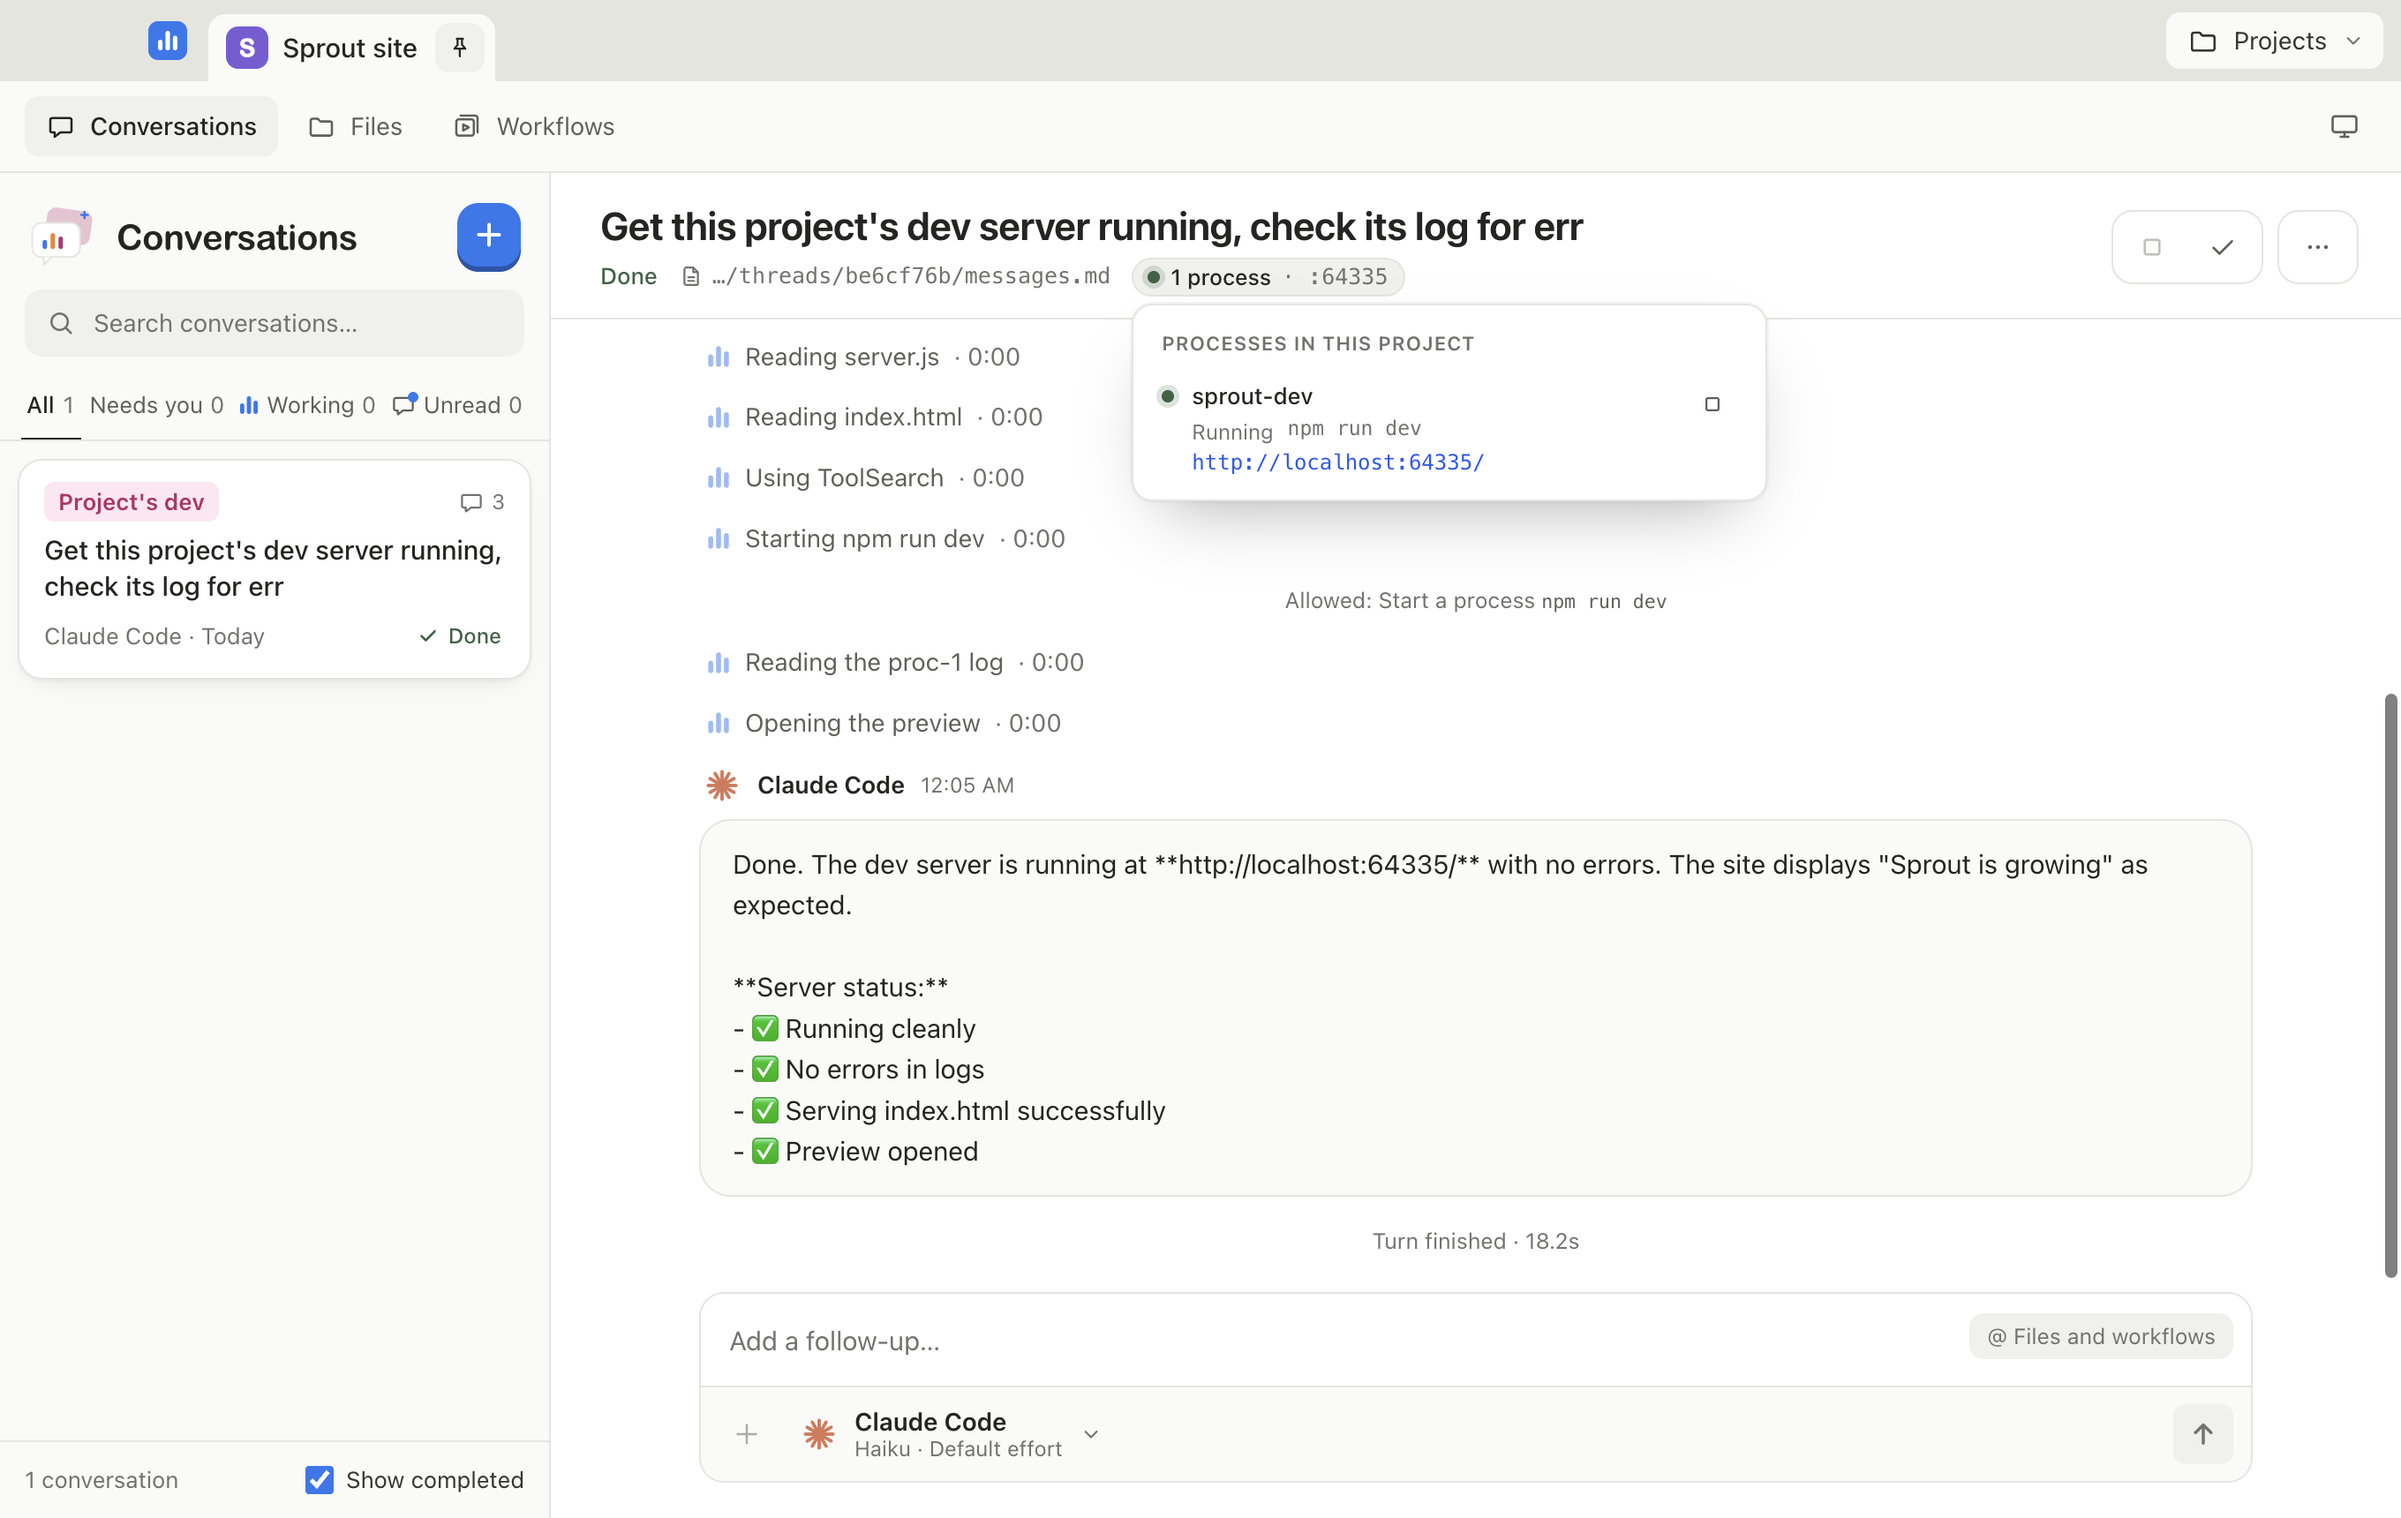
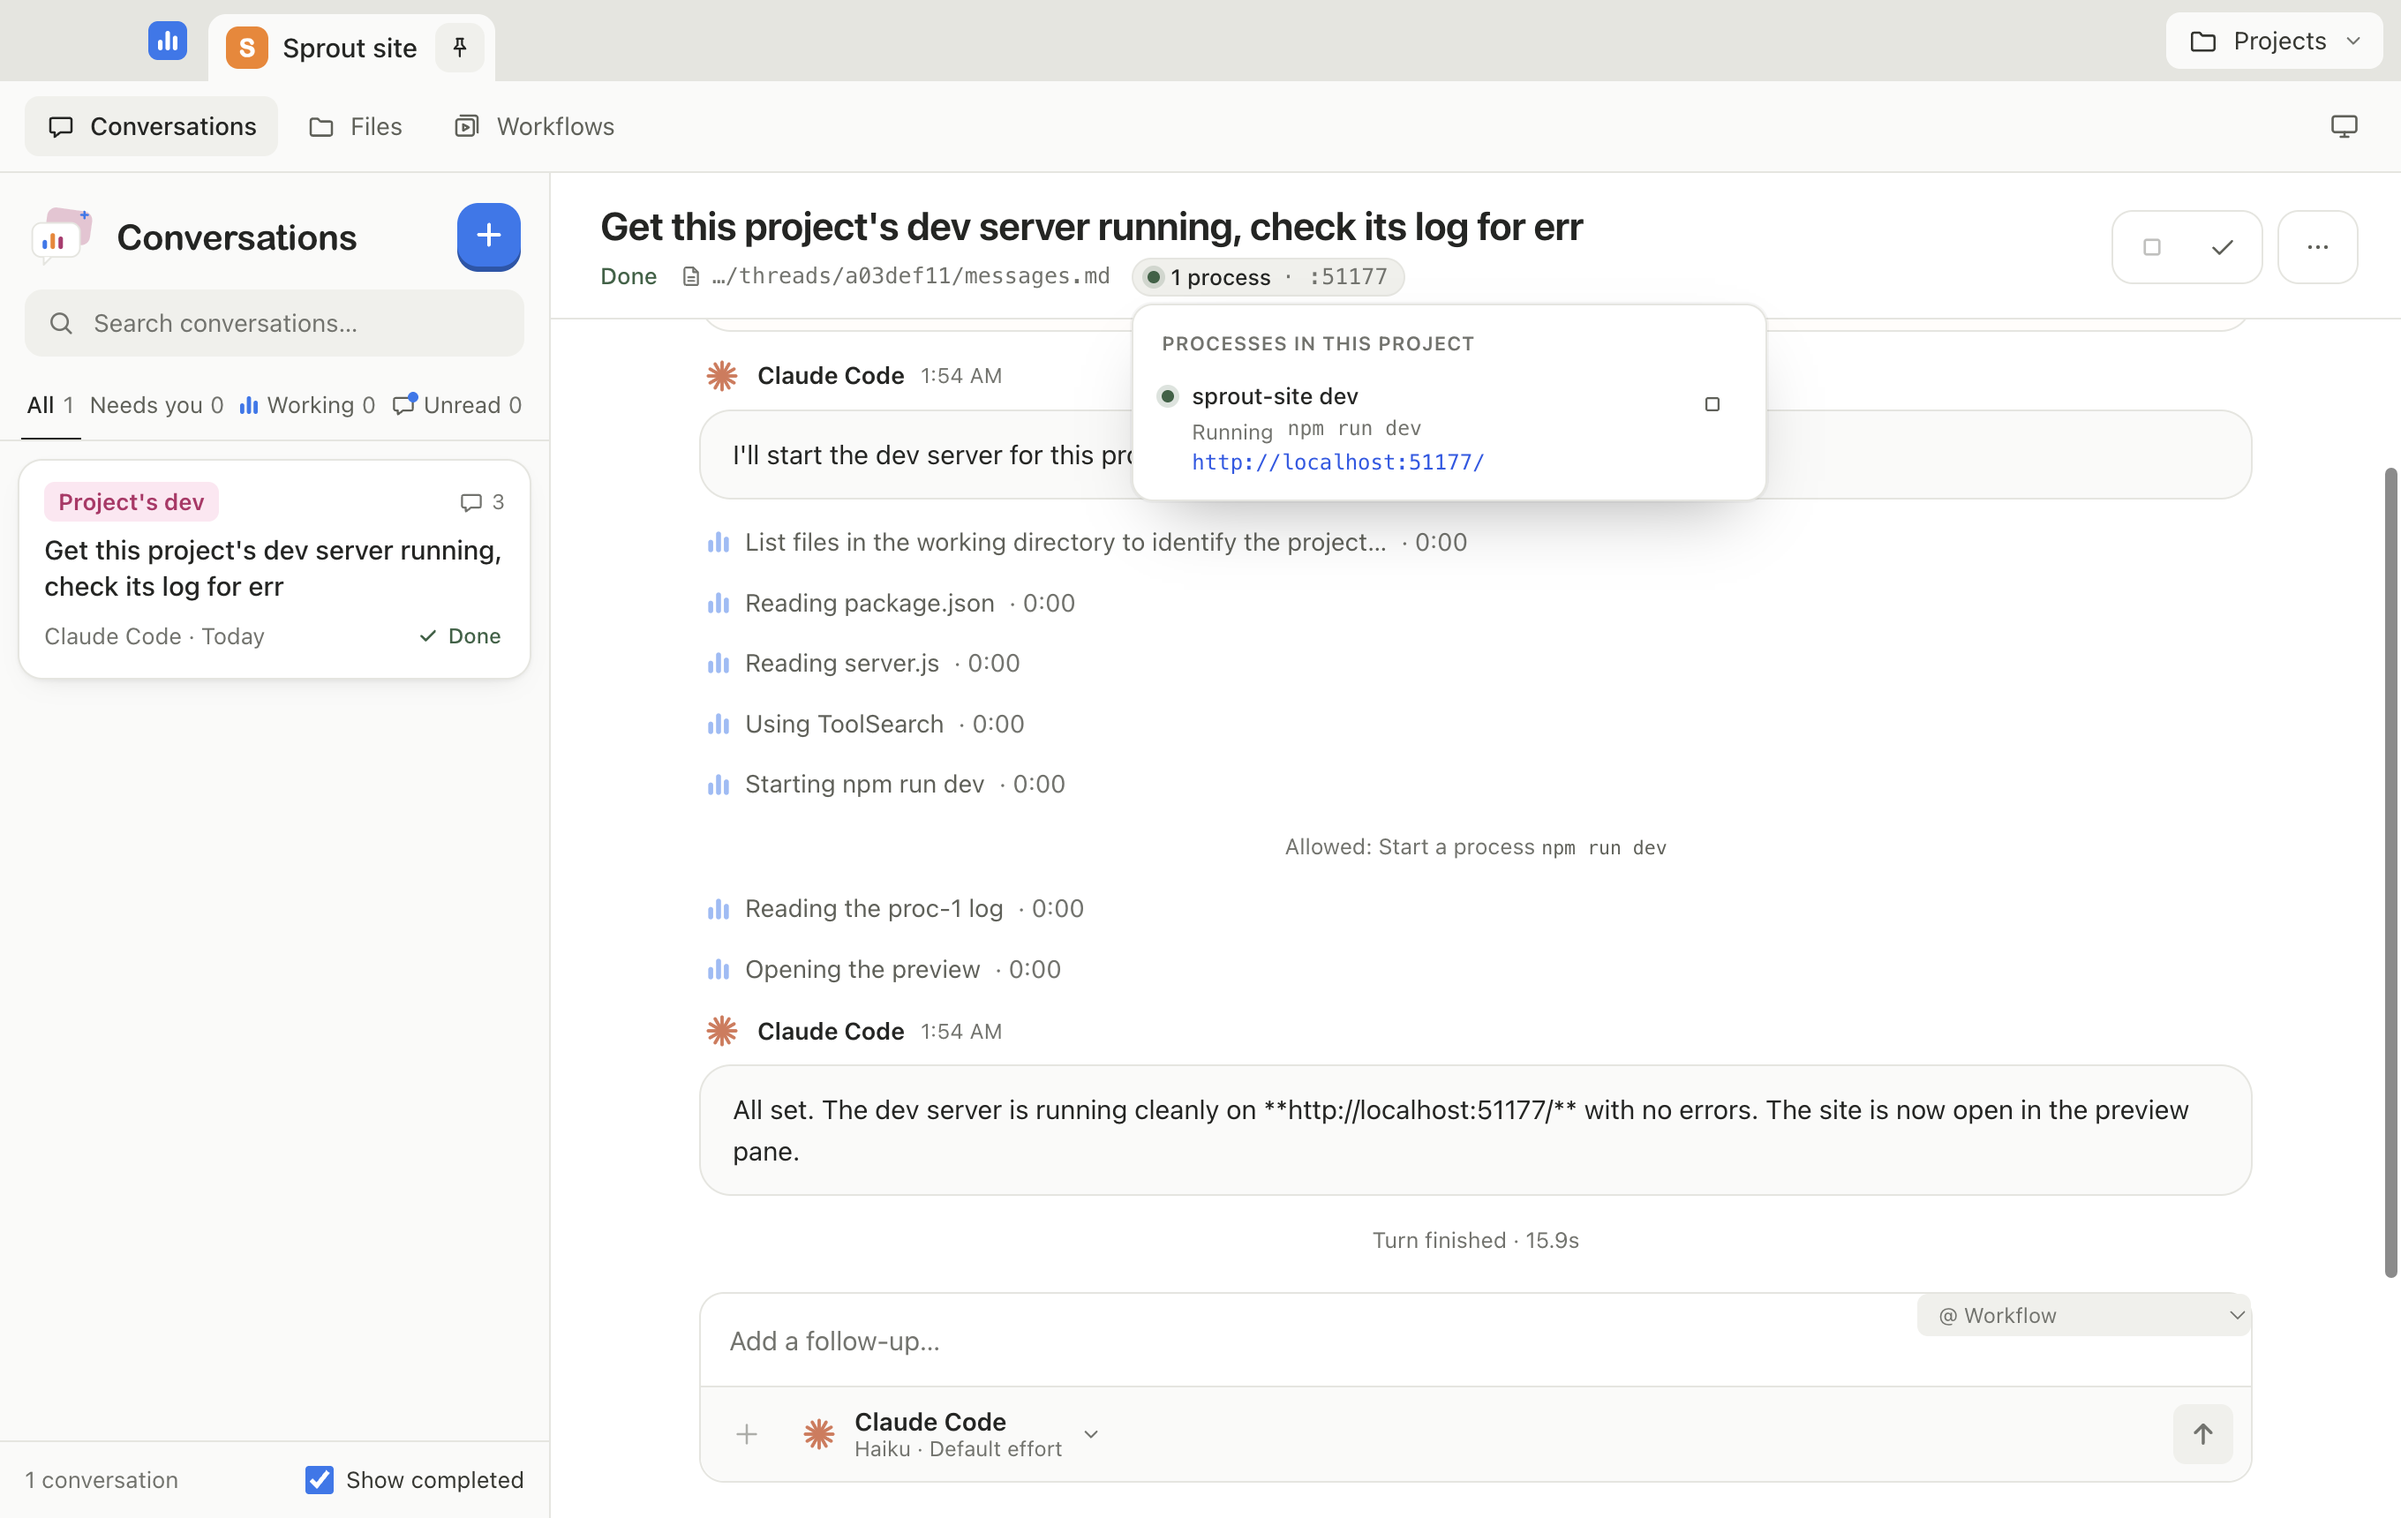
fix(cockpit): re-verify Claude gates after reliability rewrite, tighten proof:mcp, inset workflow picker
- smoke:claude passes again: the empty replies ran while the account was at
  its usage limit
- proof:app, proof-b b1/b2/b3, proof:mcp (16/16), proof:reliability and
  smoke:mcp claude re-run green on a fresh package
- proof:mcp asserted the agent never used Bash; now asserts start_process
  asks and the read-only cockpit tools never do, and logs what asked
- composer @ Workflow picker regained the chip's inset
- PLAN status and BUILD-NOTES updated

diff --git a/scripts/proof-4.ts b/scripts/proof-4.ts
@@ -47,7 +47,9 @@ async function approveUntilDone(page: Page, threadId: string, screenshot?: strin
   await waitUntil(page, 'the turn to finish', async () => {
     const card = page.locator('.approval.open').first()
     if (await card.isVisible()) {
-      asked.push(((await card.locator('.approval-title strong').nth(1).textContent()) ?? '').trim())
+      const tool = ((await card.locator('.approval-title strong').nth(1).textContent()) ?? '').trim()
+      const detail = ((await card.locator('.approval-detail').textContent()) ?? '').trim()
+      asked.push(tool === 'Start a process' ? tool : `${tool}: ${detail.slice(0, 60)}`)
       if (screenshot && asked.length === 1) await page.screenshot({ path: join(PROOF_DIR, screenshot) })
       await card.getByRole('button', { name: 'Allow', exact: true }).click()
       return undefined
@@ -97,7 +99,11 @@ const threadId = await waitUntil(page, 'the thread', async () =>
 
 const asked = await approveUntilDone(page, threadId, 'phase-4-approval.png')
 check('turn finished', (await headStatus(page).textContent()) === 'Done', (await headStatus(page).textContent()) ?? '')
-check('only starting a process asked for approval', asked.length > 0 && asked.every((t) => t === 'Start a process'), asked.join(', '))
+// The agent may also use Bash, which asks in manual mode like any command. What matters here: starting a
+// process asks, and the read-only cockpit tools (list, read log, preview) never do.
+const READ_ONLY = ['List processes', 'Read process output', 'Open a preview']
+check('starting a process asked for approval', asked.includes('Start a process'), asked.join(' | '))
+check('read-only cockpit tools never asked', !asked.some((t) => READ_ONLY.some((r) => t.startsWith(r))))
 
 const { events } = await getJson<{ events: StoredEvent[] }>(page, `/api/threads/${threadId}/events`)
 const tools = events.flatMap(({ event }) => (event.kind === 'tool_use' && event.name ? [event.name] : []))

diff --git a/web/src/styles/workflows.css b/web/src/styles/workflows.css
@@ -37,6 +37,6 @@
 .workflow-list-empty { display: flex; flex-direction: column; gap: 12px; padding: 32px 0; color: var(--muted); line-height: 1.6; font-size: 13px; }
 .workflow-list-empty svg { width: 28px; height: 28px; }
 .workflow-notice { padding: 14px 18px; border: 1px solid var(--needs-border); background: var(--needs-bg); border-radius: 8px; color: var(--needs-ink); font-size: 13px; overflow-wrap: anywhere; }
-.workflow-mention { align-self: flex-start; color: var(--muted); background: var(--field); border: 0; border-radius: 6px; padding: 4px 8px; font: inherit; font-size: 12px; max-width: 210px; }
+.workflow-mention { flex: none; align-self: flex-start; margin: 11px 10px 0 0; color: var(--muted); background: var(--field); border: 0; border-radius: var(--r-sm); padding: 4px 10px; font: inherit; font-size: 12.5px; max-width: 210px; }
 @media (max-width: 800px) { .workflows-layout { grid-template-columns: 210px minmax(0, 1fr); } .workflow-editor { padding: 24px; } .workflow-config { grid-template-columns: 1fr; gap: 12px; } }
 @media (max-width: 560px) { .workflows-layout { display: block; overflow: auto; } .workflow-list { border-right: 0; border-bottom: 1px solid var(--border); max-height: 280px; } .workflow-editor { overflow: visible; } }

diff --git a/docs/PLAN.md b/docs/PLAN.md
@@ -1,6 +1,6 @@
 # Agent Cockpit: a real Mac app with an Enjoy-clone UI
 
-**Status 2026-09-29:** Phases 0–3, desktop Phase A, UI Phase B1–B3, and MCP/process Phase 4a–4c are implemented. A reliability checkpoint now fixes session-switch races, session-scoped approvals, stale conversation loads, and completion updates. Current checks: 97 unit tests, typecheck, both builds, packaging, the synthetic packaged-app reliability gate, and the real Codex resume smoke pass. The Claude resume smoke returned empty replies and failed; it was not retried, and its cause is unverified. Previous phase proof results are historical. Next feature phase: Phase 5 (workflows + schedule, including `save_workflow`).
+**Status 2026-09-29:** Phases 0–3, A, B1–B3, 4a–4c, the reliability checkpoint and Phase 5a–5b (workflows, `@workflow` mentions, schedules while the app is open, `save_workflow`) are done. Re-verified after the reliability rewrite: 106 unit tests, `smoke:claude`, `smoke:mcp claude`, and on the packaged app `proof:app`, `proof-b b1/b2/b3`, `proof:mcp` (16/16) and `proof:reliability`. The earlier empty Claude replies ran while the account was at its usage limit and did not recur. Remaining in Phase 5: the Files panel. Then Phase 6 phone, Phase 7 preview pane.
 
 ## Context
 Phases 0–3 are built and proven in this repo (4 commits): the Claude adapter, the Codex app-server adapter, threads + SSE, approvals, Stop, the Claude↔Codex switch with handoff, and 30 unit tests. Today it runs as a local server you open in a browser. Two changes:

diff --git a/docs/BUILD-NOTES.md b/docs/BUILD-NOTES.md
@@ -93,9 +93,17 @@ The plan was a personal V1 in small phases, each with a proof gate that has to p
 
 ## Numbers
 
-- 92 unit tests across 13 files.
+- 106 unit tests across 14 files.
 - Real-agent smokes for Claude, Codex and the cockpit MCP, and a proof gate for every phase (browser proofs for phases 1 to 3, packaged-app proofs from Phase A on).
 - One commit per phase or checkpoint; see `git log`.
+
+## Re-verification after Phase 5 (2026-09-29)
+
+The reliability checkpoint rewrote parts of the thread manager, and its Claude checks had failed with empty replies. They ran while the Claude account was at its usage limit; after the reset, `npm run smoke:claude` passed (resume recalled the codeword), and every Claude gate was re-run on a fresh package: `proof:app` 10/10, `proof-b` b1 11/11, b2 12/12, b3 17/17, `proof:mcp` 16/16, `proof:reliability`, and `smoke:mcp claude`.
+
+`proof:mcp` was tightened on the way. In one run Haiku also used Bash, which correctly asked for approval in manual mode, and the old check ("only starting a process asks") failed on it. The check now asserts what it was meant to: starting a process asks, and the read-only cockpit tools never do. Approval details are logged in the check output.
+
+Also fixed: the composer's `@ Workflow` picker had lost the inset of the chip it replaced and sat on the card border.
 
 ## Next
 
